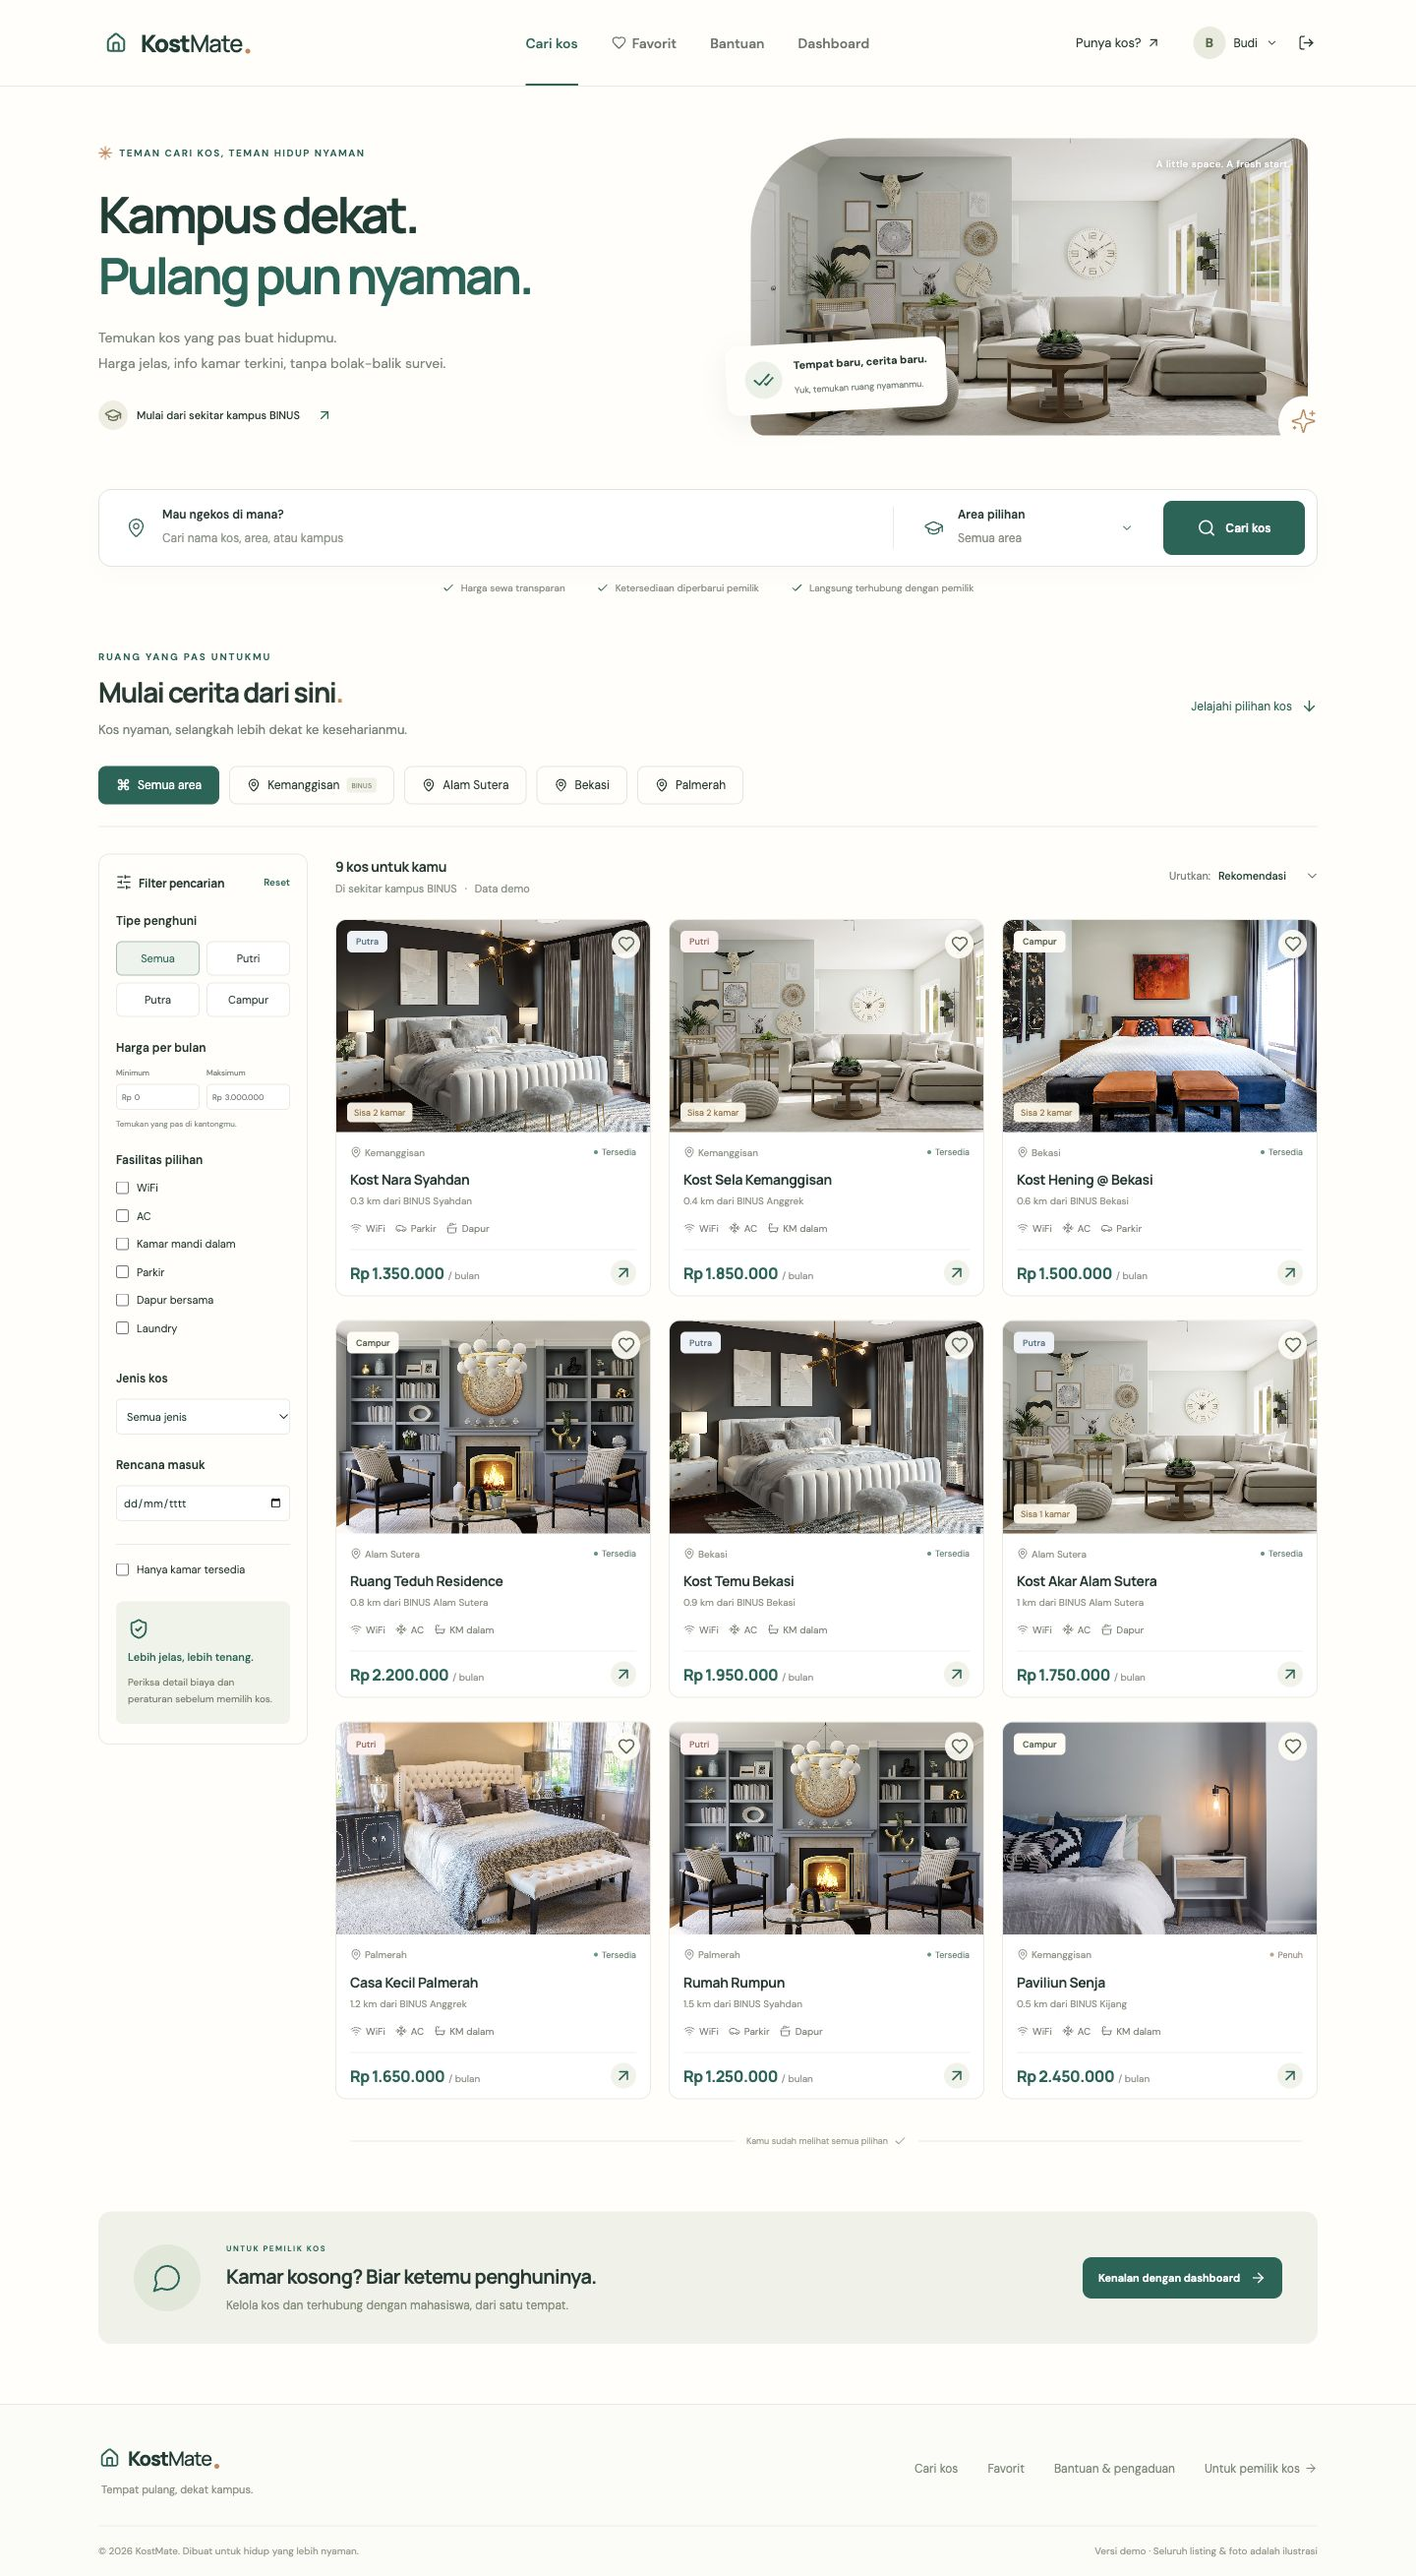
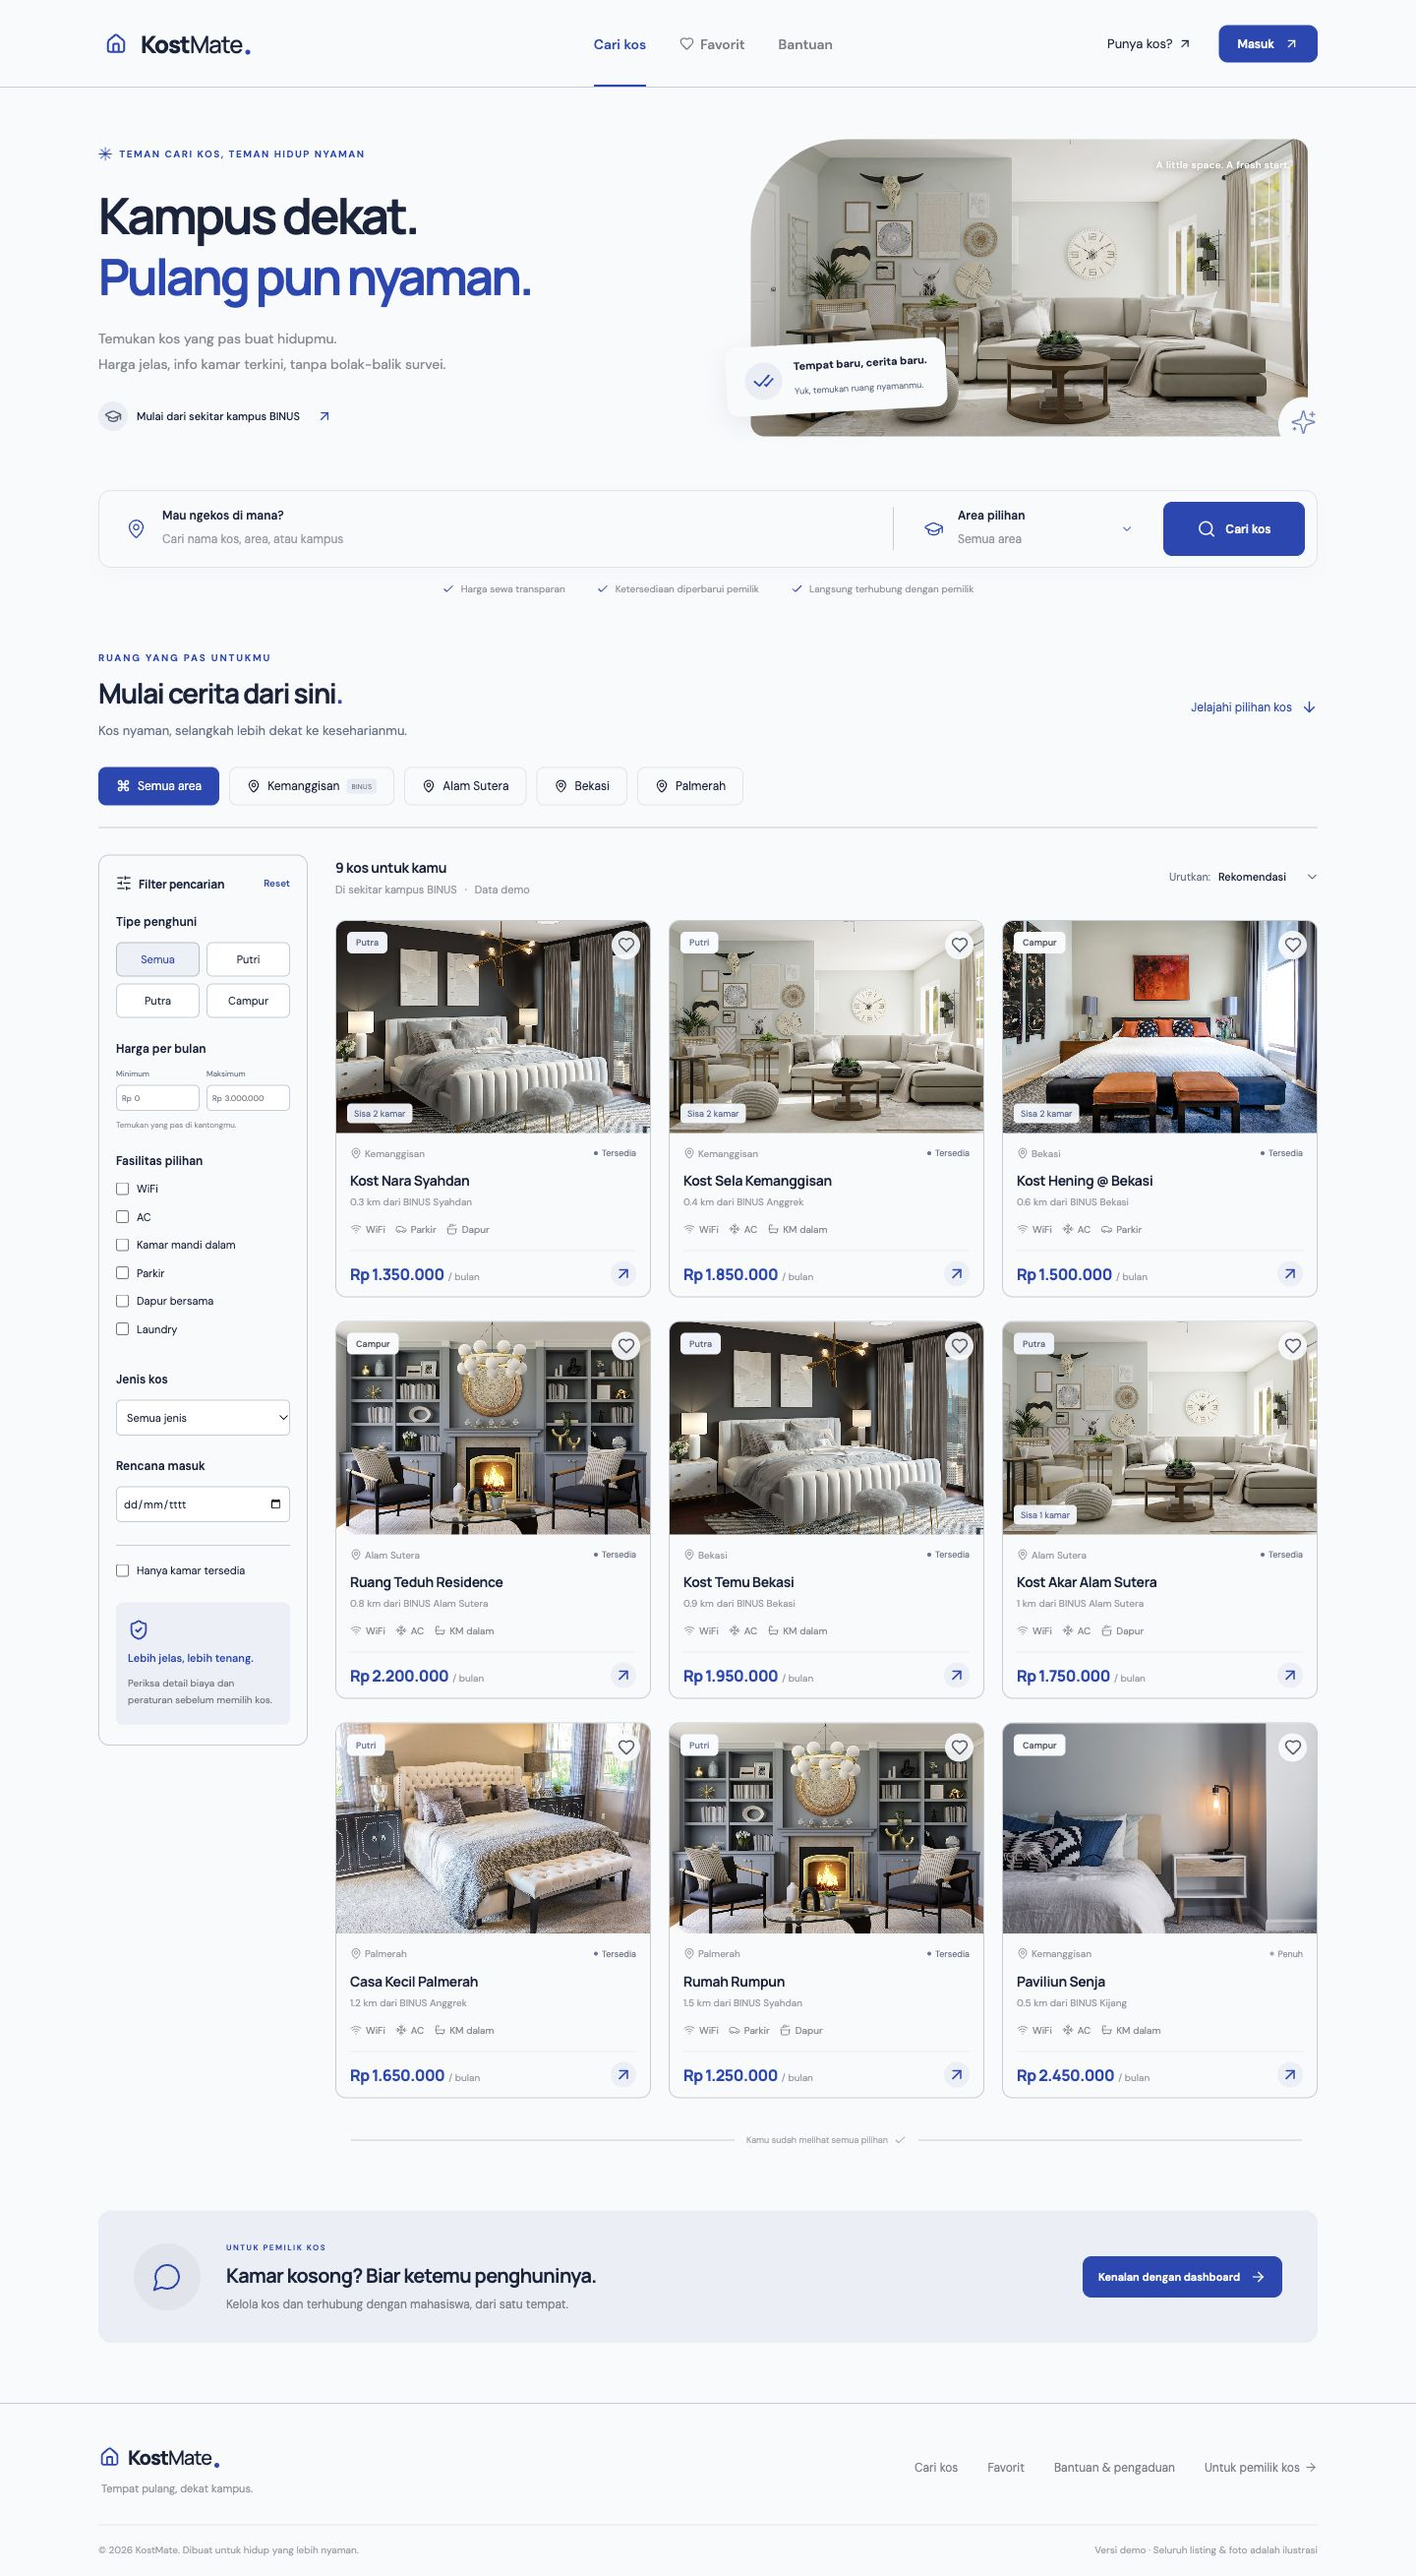
Update README with latest desktop and mobile previews

diff --git a/README.md b/README.md
@@ -3,6 +3,14 @@
 KostMate adalah **prototype pencarian kos** memakai React, Python FastAPI, dan SQLite.
 Ada pencarian kos, login/daftar, favorit, survei, pengaduan, dan dashboard pemilik.
 
+## Tampilan terbaru
+
+Warna Royal Blue + Silver, dengan tampilan yang menyesuaikan layar laptop dan HP.
+
+| Desktop | HP |
+| --- | --- |
+| <img src="docs/previews/kostmate-desktop.jpg" alt="Tampilan KostMate di desktop" width="680" /> | <img src="docs/previews/kostmate-mobile.jpg" alt="Daftar kos KostMate di HP" width="230" /> |
+
 > GitHub menyimpan kodenya. Untuk mencoba websitenya, unduh dan jalankan di laptop.
 > Mengklik file di GitHub atau membuka `index.html` langsung belum menyalakan aplikasi.
 
@@ -183,5 +191,3 @@ Dependency Python dikunci di `backend/requirements.lock.txt`; dependency React d
 | `COOKIE_SECURE`   | `0`                   | Gunakan `1` hanya pada server HTTPS; localhost HTTP memerlukan `0` |
 
 Prototype dijalankan pada satu proses server. Hosting publik membutuhkan konfigurasi HTTPS, akun/data non-demo, pembatasan login, backup, dan event bersama jika memakai beberapa worker.
-
-![Preview KostMate](docs/previews/kostmate-desktop.jpg)
